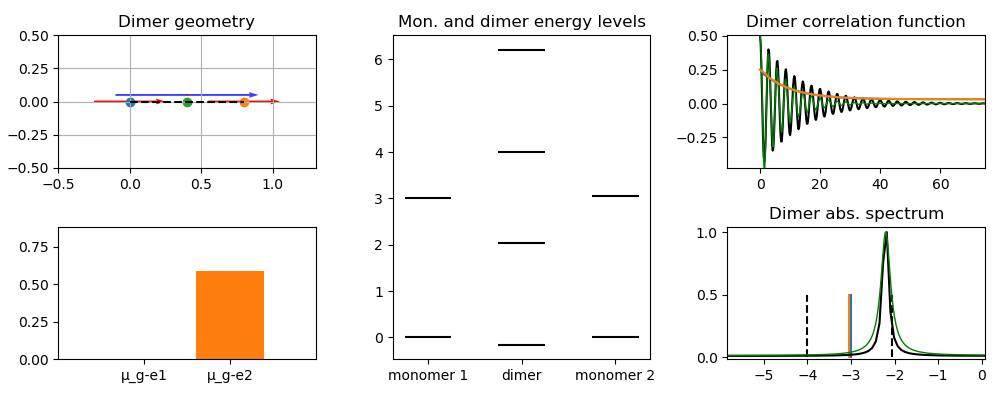
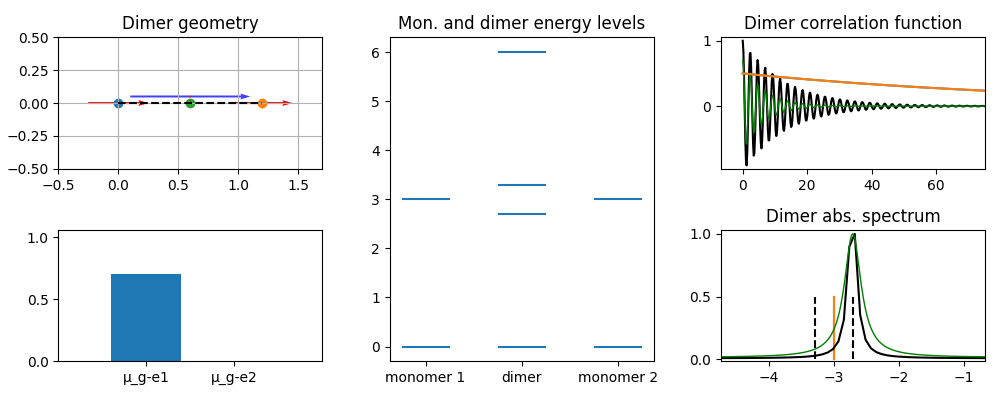
ud RM

diff --git a/README.md b/README.md
@@ -87,6 +87,15 @@ CMDS.jl uses QuantumOptics.jl to calculate the 3rd-order response functions in a
 
 The 2D spectrum shows the ground state bleach and stimulated emission (green/yellow/red) of the ... transition on the diagonal and the excited state absorption (blue/purple) of the ... transition as the off-diagonal peak.
 
+
+### coupledDimer.jl with slightly detuned monomers and reduced coupling
+
+...
+
+Evolution during the population time leads to a decrease in signal intensity:
+
+![coupledDimer evolution](example_images/coupledDimer2D_evolution.png)
+
 ### displaced_harmonic_oscillator_model.jl
 
 Another [textbook example](chem.libretexts.org/Bookshelves/Physical_and_Theoretical_Chemistry_Textbook_Maps/Book%3A_Time_Dependent_Quantum_Mechanics_and_Spectroscopy_(Tokmakoff)/13%3A_Coupling_of_Electronic_and_Nuclear_Motion/13.01%3A_The_Displaced_Harmonic_Oscillator_Model) is the displaced oscillator (DO) model. [Here](examples/displaced_harmonic_oscillator_model.jl), two electronic levels with vibrational sub-levels are coupled and yield the correlation function and spectrum:
